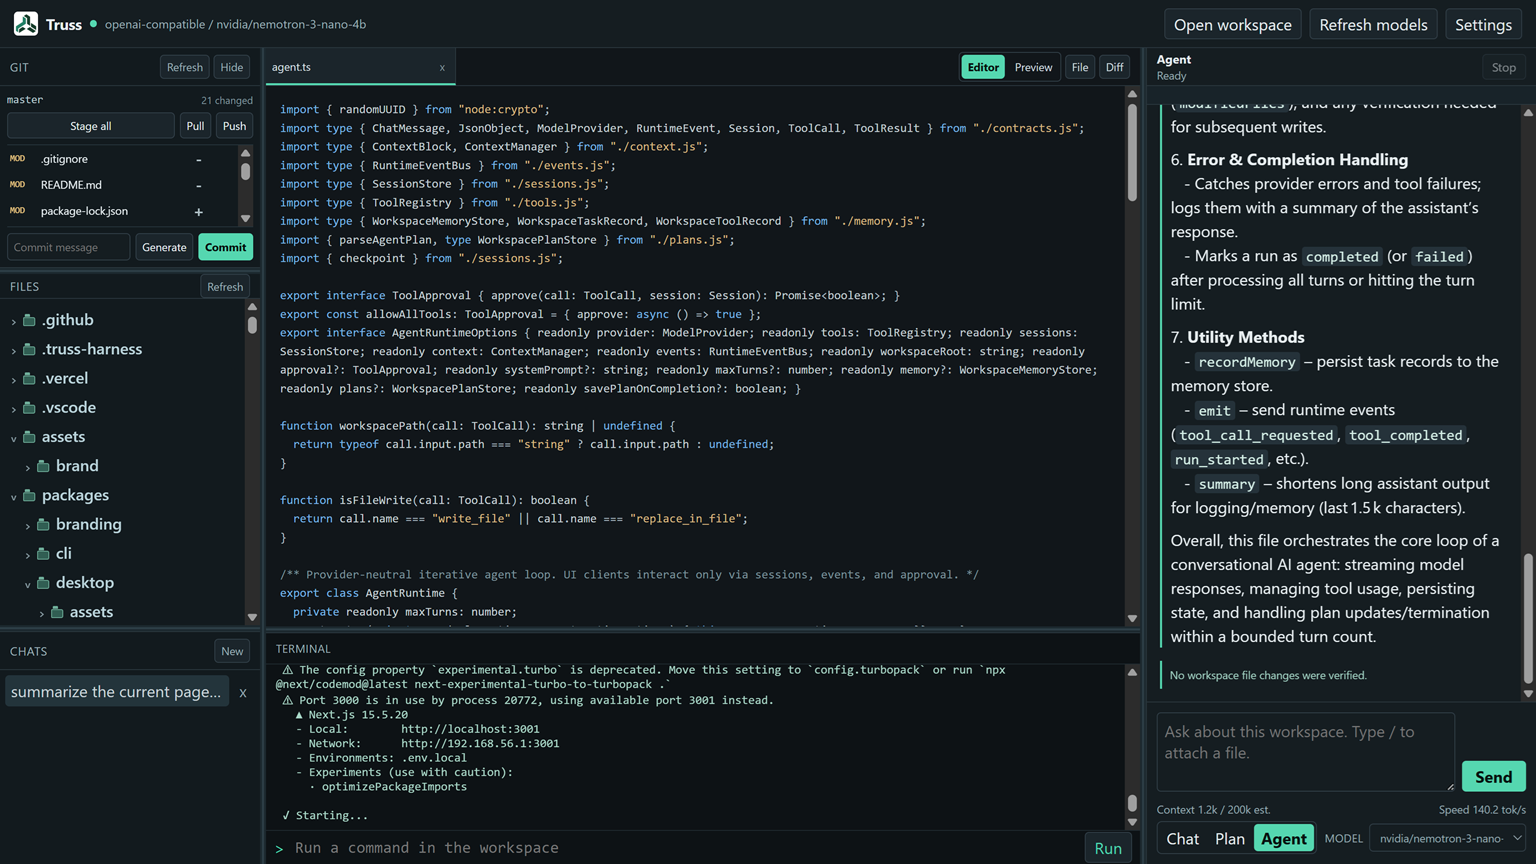
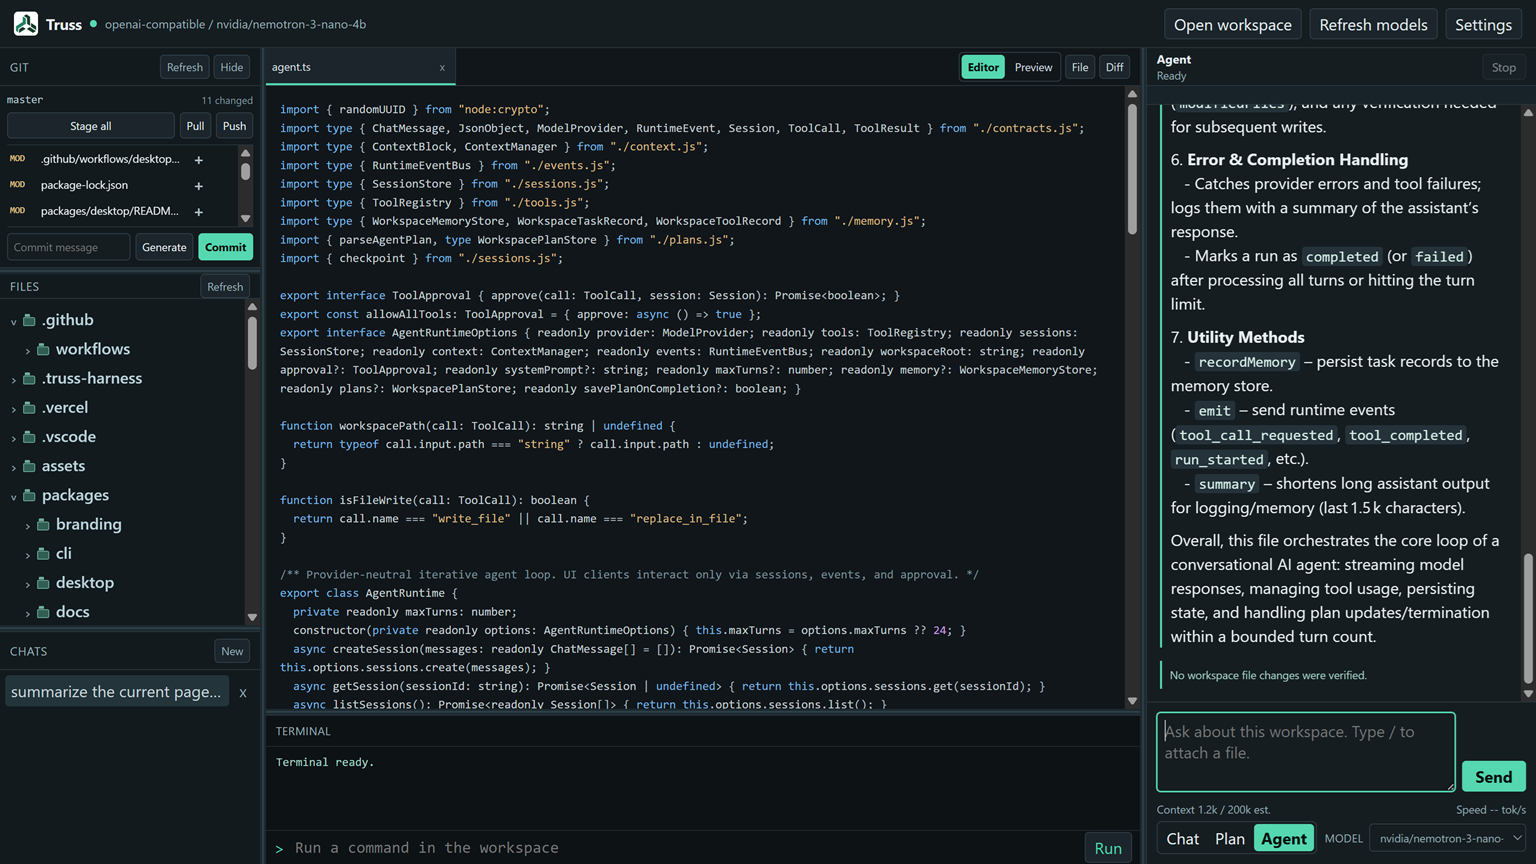
feat(desktop): add updater and file filtering

diff --git a/packages/desktop/src/renderer.ts b/packages/desktop/src/renderer.ts
@@ -31,6 +31,8 @@ const defaultConfiguration: DesktopConfiguration = {
 
 const element = <T extends HTMLElement>(id: string): T => document.getElementById(id) as T;
 const fileTree = element<HTMLDivElement>("fileTree");
+const fileSearch = element<HTMLInputElement>("fileSearch");
+const clearFileSearch = element<HTMLButtonElement>("clearFileSearch");
 const conversations = element<HTMLDivElement>("conversationList");
 const workbench = document.querySelector<HTMLElement>(".workbench") as HTMLElement;
 const sidebar = document.querySelector<HTMLElement>(".sidebar") as HTMLElement;
@@ -87,12 +89,19 @@ const permissionSelect = element<HTMLSelectElement>("permissionSelect");
 const internetAccessInput = element<HTMLInputElement>("internetAccessInput");
 const mcpServersInput = element<HTMLTextAreaElement>("mcpServersInput");
 const mcpStatus = element<HTMLDivElement>("mcpStatus");
+const checkUpdatesOnLaunch = element<HTMLInputElement>("checkUpdatesOnLaunch");
+const autoDownloadUpdates = element<HTMLInputElement>("autoDownloadUpdates");
+const updateStatus = element<HTMLSpanElement>("updateStatus");
+const checkUpdates = element<HTMLButtonElement>("checkUpdates");
+const downloadUpdate = element<HTMLButtonElement>("downloadUpdate");
+const installUpdate = element<HTMLButtonElement>("installUpdate");
 const toast = element<HTMLDivElement>("toast");
 
-let desktopState: DesktopState = { workspaceRoot: "", conversations: [] };
+let desktopState: DesktopState = { workspaceRoot: "", updates: { checkOnLaunch: true, autoDownload: false }, conversations: [] };
 let endpoints: readonly DesktopEndpoint[] = [];
 let models: readonly string[] = [];
 let files: readonly DesktopFile[] = [];
+let fileSearchQuery = "";
 let activeFile: string | undefined;
 let showingDiff = false;
 type EditorTabMode = "file" | "diff";
@@ -361,6 +370,35 @@ function renderFiles(): void {
     empty.className = "empty-chat";
     empty.textContent = "No files loaded.";
     fileTree.append(empty);
+    return;
+  }
+  const query = fileSearchQuery.trim();
+  clearFileSearch.hidden = !query;
+  if (query) {
+    const matches = files
+      .flatMap((file) => {
+        const score = fuzzyScore(file.path, query);
+        return score === undefined ? [] : [{ file, score }];
+      })
+      .sort((left, right) => left.score - right.score || left.file.path.localeCompare(right.file.path));
+    if (!matches.length) {
+      const empty = document.createElement("div");
+      empty.className = "empty-chat";
+      empty.textContent = `No files match “${query}”.`;
+      fileTree.append(empty);
+      return;
+    }
+    for (const { file } of matches) {
+      const row = document.createElement("div");
+      row.className = "tree-row file filtered";
+      const button = document.createElement("button");
+      button.textContent = file.path;
+      button.title = file.path;
+      if (file.path === activeFile) button.classList.add("active");
+      button.onclick = () => void openFile(file.path, false);
+      row.append(button);
+      fileTree.append(row);
+    }
     return;
   }
   interface TreeNode { readonly directories: Map<string, TreeNode>; readonly files: DesktopFile[]; }
@@ -929,6 +967,20 @@ function renderMcpStatus(): void {
   }));
 }
 
+function renderUpdate(status: Extract<DesktopEvent, { readonly type: "update" }>): void {
+  const version = status.version ? ` ${status.version}` : "";
+  updateStatus.textContent = status.status === "checking" ? "Checking for updates..."
+    : status.status === "available" ? `Version${version} is available.`
+      : status.status === "not-available" ? "Truss is up to date."
+        : status.status === "downloading" ? `Downloading update${status.percent === undefined ? "..." : ` (${Math.round(status.percent)}%)`}`
+          : status.status === "downloaded" ? `Version${version} is ready to install.`
+            : status.message ?? "Unable to check for updates.";
+  downloadUpdate.hidden = status.status !== "available";
+  installUpdate.hidden = status.status !== "downloaded";
+  checkUpdates.disabled = status.status === "checking" || status.status === "downloading";
+  downloadUpdate.disabled = status.status === "downloading";
+}
+
 function populateSettings(): void {
   const current = configuration();
   providerSelect.value = current.provider;
@@ -938,6 +990,8 @@ function populateSettings(): void {
   permissionSelect.value = current.permission;
   internetAccessInput.checked = current.internetAccess;
   mcpServersInput.value = Object.keys(current.mcpServers).length ? JSON.stringify(current.mcpServers, null, 2) : "";
+  checkUpdatesOnLaunch.checked = desktopState.updates.checkOnLaunch;
+  autoDownloadUpdates.checked = desktopState.updates.autoDownload;
   renderMcpStatus();
 }
 
@@ -1063,6 +1117,7 @@ function appendTerminal(text: string): void {
 }
 
 function handleEvent(message: DesktopEvent): void {
+  if (message.type === "update") { renderUpdate(message); return; }
   if (message.type === "chat-start") {
     runningConversationId = message.conversationId;
     updateConversation(message.conversationId, (current) => ({ ...current, lastRun: { status: "running", modifiedFiles: [] } }));
@@ -1230,6 +1285,16 @@ element<HTMLButtonElement>("chooseWorkspace").onclick = async () => {
 };
 element<HTMLButtonElement>("refreshModels").onclick = () => void discover({ provider: providerSelect.value === "openai-compatible" ? "openai-compatible" : "ollama", baseUrl: baseUrlInput.value || configuration().baseUrl });
 element<HTMLButtonElement>("refreshFiles").onclick = () => void loadFiles();
+fileSearch.oninput = () => { fileSearchQuery = fileSearch.value; renderFiles(); };
+fileSearch.onkeydown = (event) => {
+  if (event.key === "Escape") {
+    event.preventDefault();
+    fileSearch.value = "";
+    fileSearchQuery = "";
+    renderFiles();
+  }
+};
+clearFileSearch.onclick = () => { fileSearch.value = ""; fileSearchQuery = ""; renderFiles(); fileSearch.focus(); };
 element<HTMLButtonElement>("refreshGit").onclick = () => void refreshGit();
 element<HTMLButtonElement>("toggleGit").onclick = () => setGitCollapsed(!gitCollapsed);
 element<HTMLButtonElement>("stageAll").onclick = () => {
@@ -1281,11 +1346,17 @@ element<HTMLButtonElement>("applySettings").onclick = (event) => {
   event.preventDefault();
   try {
     const next = settingsConfiguration();
-    void applyConfiguration(next).then(() => settingsDialog.close()).catch((error) => notify(error instanceof Error ? error.message : String(error)));
+    void applyConfiguration(next)
+      .then(() => window.trussDesktop.configureUpdates({ checkOnLaunch: checkUpdatesOnLaunch.checked, autoDownload: autoDownloadUpdates.checked }))
+      .then((returned) => { desktopState = returned; settingsDialog.close(); })
+      .catch((error) => notify(error instanceof Error ? error.message : String(error)));
   } catch (error) {
     notify(error instanceof Error ? error.message : String(error));
   }
 };
+checkUpdates.onclick = () => void window.trussDesktop.checkForUpdates().catch((error) => renderUpdate({ type: "update", status: "error", message: error instanceof Error ? error.message : String(error) }));
+downloadUpdate.onclick = () => void window.trussDesktop.downloadUpdate().catch((error) => renderUpdate({ type: "update", status: "error", message: error instanceof Error ? error.message : String(error) }));
+installUpdate.onclick = () => { void window.trussDesktop.installUpdate().catch((error) => renderUpdate({ type: "update", status: "error", message: error instanceof Error ? error.message : String(error) })); };
 endpointSelect.onchange = () => { if (!endpointSelect.value) return; const selected = JSON.parse(endpointSelect.value) as DesktopEndpoint; providerSelect.value = selected.kind; baseUrlInput.value = selected.baseUrl; void discover({ provider: selected.kind, baseUrl: selected.baseUrl }); };
 quickModel.onchange = () => { const next = quickModel.value; if (!next || next === configuration().model) return; void applyConfiguration({ ...configuration(), model: next }).catch((error) => notify(error instanceof Error ? error.message : String(error))); };
 document.querySelectorAll<HTMLButtonElement>("[data-mode]").forEach((button) => button.onclick = () => void applyConfiguration({ ...configuration(), mode: button.dataset.mode as DesktopConfiguration["mode"] }).catch((error) => notify(error instanceof Error ? error.message : String(error))));

diff --git a/packages/desktop/src/main.ts b/packages/desktop/src/main.ts
@@ -1,4 +1,5 @@
 import { app, BrowserWindow, dialog, ipcMain, protocol, shell, type OpenDialogOptions } from "electron";
+import { autoUpdater } from "electron-updater";
 import { spawn } from "node:child_process";
 import { execFile as execFileCallback } from "node:child_process";
 import { createReadStream } from "node:fs";
@@ -34,7 +35,7 @@ protocol.registerSchemesAsPrivileged([{
 interface PersistedState extends DesktopState {}
 
 let mainWindow: BrowserWindow | undefined;
-let persisted: PersistedState = { workspaceRoot: process.cwd(), conversations: [] };
+let persisted: PersistedState = { workspaceRoot: process.cwd(), updates: { checkOnLaunch: true, autoDownload: false }, conversations: [] };
 let runtimeClient: Awaited<ReturnType<typeof createClientRuntime>> | undefined;
 let unsubscribeEvents: (() => void) | undefined;
 let activeSessionId: string | undefined;
@@ -42,11 +43,37 @@ let activeConversationId: string | undefined;
 let activeAbort: AbortController | undefined;
 let activeRun: Promise<void> | undefined;
 let devServerProcess: ReturnType<typeof spawn> | undefined;
+let updaterConfigured = false;
 const approvalResolvers = new Map<string, (approved: boolean) => void>();
 const sessionConversationIds = new Map<string, string>();
 
 function send(event: DesktopEvent): void {
   mainWindow?.webContents.send("truss:event", event);
+}
+
+function updaterError(error: unknown): void {
+  const message = error instanceof Error ? error.message : String(error);
+  send({ type: "update", status: "error", message });
+}
+
+function updaterSupported(): boolean {
+  return app.isPackaged && (process.platform === "win32" || (process.platform === "linux" && process.arch === "x64" && Boolean(process.env.APPIMAGE)));
+}
+
+function configureUpdater(): void {
+  if (!updaterSupported() || updaterConfigured) return;
+  updaterConfigured = true;
+  autoUpdater.autoDownload = persisted.updates.autoDownload;
+  autoUpdater.autoInstallOnAppQuit = false;
+  autoUpdater.on("checking-for-update", () => send({ type: "update", status: "checking" }));
+  autoUpdater.on("update-available", (info) => send({ type: "update", status: "available", version: info.version }));
+  autoUpdater.on("update-not-available", (info) => send({ type: "update", status: "not-available", version: info.version }));
+  autoUpdater.on("download-progress", (progress) => send({ type: "update", status: "downloading", percent: progress.percent }));
+  autoUpdater.on("update-downloaded", (info) => send({ type: "update", status: "downloaded", version: info.version }));
+  autoUpdater.on("error", updaterError);
+  if (persisted.updates.checkOnLaunch) {
+    setTimeout(() => { void autoUpdater.checkForUpdates().catch(updaterError); }, 1_500);
+  }
 }
 
 function detectedPreviewUrl(output: string): string | undefined {
@@ -97,11 +124,14 @@ async function loadPersistedState(): Promise<void> {
     persisted = {
       workspaceRoot: typeof parsed.workspaceRoot === "string" ? parsed.workspaceRoot : process.cwd(),
       configuration: isConfiguration(parsed.configuration) ? normalizeConfiguration(parsed.configuration) : undefined,
+      updates: parsed.updates && typeof parsed.updates === "object"
+        ? { checkOnLaunch: (parsed.updates as { checkOnLaunch?: unknown }).checkOnLaunch !== false, autoDownload: (parsed.updates as { autoDownload?: unknown }).autoDownload === true }
+        : { checkOnLaunch: true, autoDownload: false },
       conversations: Array.isArray(parsed.conversations) ? parsed.conversations.slice(0, 30) : [],
       activeConversationId: typeof parsed.activeConversationId === "string" ? parsed.activeConversationId : undefined
     };
   } catch {
-    persisted = { workspaceRoot: process.cwd(), conversations: [] };
+    persisted = { workspaceRoot: process.cwd(), updates: { checkOnLaunch: true, autoDownload: false }, conversations: [] };
   }
 }
 
@@ -504,6 +534,7 @@ app.whenReady().then(async () => {
   protocol.handle("truss-media", workspaceMediaResponse);
   if (persisted.configuration) await configureRuntime(persisted.configuration);
   await createMainWindow();
+  configureUpdater();
   app.on("activate", () => { if (!mainWindow) void createMainWindow(); });
 });
 
@@ -514,6 +545,30 @@ app.on("before-quit", () => {
 });
 
 ipcMain.handle("truss:initial-state", (): DesktopState => persisted);
+ipcMain.handle("truss:configure-updates", async (_event, updates: { readonly checkOnLaunch: boolean; readonly autoDownload: boolean }): Promise<DesktopState> => {
+  persisted = {
+    ...persisted,
+    updates: {
+      checkOnLaunch: updates.checkOnLaunch !== false,
+      autoDownload: updates.autoDownload === true
+    }
+  };
+  autoUpdater.autoDownload = persisted.updates.autoDownload;
+  await persistState();
+  return persisted;
+});
+ipcMain.handle("truss:check-for-updates", async (): Promise<void> => {
+  if (!updaterSupported()) throw new Error("In-app updates are available in installed Windows and Linux AppImage builds. Update this package through its installer or package manager.");
+  await autoUpdater.checkForUpdates();
+});
+ipcMain.handle("truss:download-update", async (): Promise<void> => {
+  if (!updaterSupported()) throw new Error("In-app updates are available in installed Windows and Linux AppImage builds. Update this package through its installer or package manager.");
+  await autoUpdater.downloadUpdate();
+});
+ipcMain.handle("truss:install-update", (): void => {
+  if (!updaterSupported()) throw new Error("In-app updates are available in installed Windows and Linux AppImage builds. Update this package through its installer or package manager.");
+  autoUpdater.quitAndInstall(false, true);
+});
 ipcMain.handle("truss:choose-workspace", async (): Promise<DesktopState | undefined> => {
   const options: OpenDialogOptions = { properties: ["openDirectory"] };
   const selection = mainWindow ? await dialog.showOpenDialog(mainWindow, options) : await dialog.showOpenDialog(options);

diff --git a/packages/desktop/src/styles.css b/packages/desktop/src/styles.css
@@ -188,6 +188,25 @@ button:focus-visible {
     margin-block: 3px;
 }
 
+.file-filter {
+    display: flex;
+    gap: 5px;
+    padding: 5px 6px;
+    border-bottom: 1px solid #2b383f;
+}
+
+.file-filter input {
+    min-width: 0;
+    flex: 1;
+    padding: 5px 7px;
+    font-size: 12px;
+}
+
+.file-filter button {
+    padding-inline: 6px;
+    font-size: 11px;
+}
+
 .file-tree,
 .conversation-list {
     min-height: 0;
@@ -871,6 +890,29 @@ dialog::backdrop {
     font-size: 11px;
 }
 
+.update-settings {
+    display: grid;
+    grid-column: 1 / -1;
+    gap: 8px;
+    padding-top: 4px;
+    border-top: 1px solid #2b383f;
+    color: #d8e5e8;
+    font-size: 12px;
+}
+
+.update-actions {
+    display: flex;
+    align-items: center;
+    flex-wrap: wrap;
+    gap: 7px;
+}
+
+.update-actions span {
+    flex: 1 1 180px;
+    color: #9cadb4;
+    font-size: 11px;
+}
+
 .mcp-status .connected {
     color: #69d6b5;
 }
@@ -938,6 +980,10 @@ dialog::backdrop {
 
 .tree-row.file button {
     color: #c6d1d6;
+}
+
+.tree-row.file.filtered button {
+    padding-left: 6px;
 }
 
 .tree-arrow {

diff --git a/packages/desktop/src/index.html b/packages/desktop/src/index.html
@@ -23,7 +23,7 @@
         </div>
       </section>
       <div id="gitSplitter" class="pane-splitter horizontal" role="separator" aria-label="Resize Git panel"></div>
-      <section class="side-section files-section"><div class="section-heading"><span>Files</span><button id="refreshFiles" title="Refresh files">Refresh</button></div><div id="fileTree" class="file-tree"></div></section>
+      <section class="side-section files-section"><div class="section-heading"><span>Files</span><button id="refreshFiles" title="Refresh files">Refresh</button></div><div class="file-filter"><input id="fileSearch" type="search" autocomplete="off" spellcheck="false" placeholder="Filter files" aria-label="Filter files"><button id="clearFileSearch" type="button" title="Clear file filter" aria-label="Clear file filter" hidden>Clear</button></div><div id="fileTree" class="file-tree"></div></section>
       <div id="historySplitter" class="pane-splitter horizontal" role="separator" aria-label="Resize chat history"></div>
       <section class="side-section history-section"><div class="section-heading"><span>Chats</span><button id="newChat" title="New chat">New</button></div><div id="conversationList" class="conversation-list"></div></section>
     </aside>
@@ -70,6 +70,12 @@
       <label class="checkbox-setting"><input id="internetAccessInput" type="checkbox"><span>Allow public internet research</span></label>
       <label class="mcp-setting">MCP servers (JSON)<textarea id="mcpServersInput" rows="8" spellcheck="false" placeholder='{"filesystem":{"command":"npx","args":["-y","@modelcontextprotocol/server-filesystem","."]}}'></textarea></label>
       <div id="mcpStatus" class="mcp-status">No MCP servers configured.</div>
+      <section class="update-settings" aria-label="Desktop updates">
+        <strong>Desktop updates</strong>
+        <label class="checkbox-setting"><input id="checkUpdatesOnLaunch" type="checkbox"><span>Check for updates when Truss starts</span></label>
+        <label class="checkbox-setting"><input id="autoDownloadUpdates" type="checkbox"><span>Automatically download available updates</span></label>
+        <div class="update-actions"><span id="updateStatus">Updates have not been checked.</span><button id="checkUpdates" type="button">Check now</button><button id="downloadUpdate" type="button" hidden>Download</button><button id="installUpdate" class="primary" type="button" hidden>Restart to update</button></div>
+      </section>
       <div class="dialog-actions"><button id="dialogRefresh" type="button">Refresh</button><button id="applySettings" class="primary" value="default">Apply</button></div>
     </form>
   </dialog>

diff --git a/packages/desktop/src/shared.ts b/packages/desktop/src/shared.ts
@@ -61,6 +61,7 @@ export interface DesktopGitStatus {
 export interface DesktopState {
   readonly workspaceRoot: string;
   readonly configuration?: DesktopConfiguration;
+  readonly updates: { readonly checkOnLaunch: boolean; readonly autoDownload: boolean };
   readonly conversations: readonly DesktopConversation[];
   readonly activeConversationId?: string;
   readonly mcpStatuses?: readonly McpServerStatus[];
@@ -73,6 +74,7 @@ export type DesktopEvent =
   | { readonly type: "chat-error"; readonly conversationId: string; readonly message: string }
   | { readonly type: "approval"; readonly callId: string; readonly tool: string; readonly input: Record<string, unknown> }
   | { readonly type: "dev-server"; readonly status: "starting" | "running" | "stopped" | "failed"; readonly command?: string; readonly url?: string; readonly message?: string }
+  | { readonly type: "update"; readonly status: "checking" | "available" | "not-available" | "downloading" | "downloaded" | "error"; readonly version?: string; readonly percent?: number; readonly message?: string }
   | { readonly type: "terminal-output"; readonly commandId: string; readonly text: string };
 
 export interface DesktopBridge {
@@ -81,6 +83,10 @@ export interface DesktopBridge {
   saveConversations(conversations: readonly DesktopConversation[], activeConversationId?: string): Promise<void>;
   discoverModels(configuration?: Partial<DesktopConfiguration>): Promise<{ readonly endpoints: readonly DesktopEndpoint[]; readonly models: readonly string[] }>;
   configure(configuration: DesktopConfiguration): Promise<DesktopState>;
+  configureUpdates(updates: { readonly checkOnLaunch: boolean; readonly autoDownload: boolean }): Promise<DesktopState>;
+  checkForUpdates(): Promise<void>;
+  downloadUpdate(): Promise<void>;
+  installUpdate(): Promise<void>;
   sendChat(input: { readonly prompt: string; readonly conversationId: string; readonly history: readonly DesktopMessage[]; readonly activeFilePath?: string; readonly attachedPaths?: readonly string[]; readonly openFilePaths?: readonly string[] }): Promise<void>;
   stopChat(): Promise<void>;
   resolveApproval(callId: string, approved: boolean): Promise<void>;

diff --git a/packages/desktop/src/preload.ts b/packages/desktop/src/preload.ts
@@ -7,6 +7,10 @@ const bridge: DesktopBridge = {
   saveConversations: (conversations: readonly DesktopConversation[], activeConversationId?: string) => ipcRenderer.invoke("truss:save-conversations", conversations, activeConversationId),
   discoverModels: (configuration?: Partial<DesktopConfiguration>) => ipcRenderer.invoke("truss:discover-models", configuration),
   configure: (configuration: DesktopConfiguration) => ipcRenderer.invoke("truss:configure", configuration),
+  configureUpdates: (updates: { readonly checkOnLaunch: boolean; readonly autoDownload: boolean }) => ipcRenderer.invoke("truss:configure-updates", updates),
+  checkForUpdates: () => ipcRenderer.invoke("truss:check-for-updates"),
+  downloadUpdate: () => ipcRenderer.invoke("truss:download-update"),
+  installUpdate: () => ipcRenderer.invoke("truss:install-update"),
   sendChat: (input: { readonly prompt: string; readonly conversationId: string; readonly history: readonly DesktopMessage[]; readonly activeFilePath?: string; readonly attachedPaths?: readonly string[]; readonly openFilePaths?: readonly string[] }) => ipcRenderer.invoke("truss:send-chat", input),
   stopChat: () => ipcRenderer.invoke("truss:stop-chat"),
   resolveApproval: (callId: string, approved: boolean) => ipcRenderer.invoke("truss:resolve-approval", callId, approved),

diff --git a/packages/desktop/README.md b/packages/desktop/README.md
@@ -31,6 +31,12 @@ The three-pane workspace supports a hierarchical file tree, multiple editor tabs
 
 The terminal accepts both ordinary shell commands and Truss workspace commands. Enter `/help`, `/status`, `/init`, `/update [note]`, or `/clear-memory` directly; slash commands run locally through Truss rather than being sent to the operating-system shell.
 
+## Updates
+
+Installed Windows and Linux x64 AppImage builds check the latest stable GitHub release when **Check for updates when Truss starts** is enabled in Settings. This preference is on by default. Enable **Automatically download available updates** for background downloads, or use **Check now** and **Download** manually. Choose **Restart to update** when the update is ready.
+
+Debian, RPM, pacman, and Linux ARM64 packages are updated through their installer or package manager. Development builds intentionally do not check for updates.
+
 ## Security model
 
 The renderer runs with `contextIsolation` enabled and `nodeIntegration` disabled. Filesystem, terminal, Git, provider, and runtime operations are exposed only through explicit IPC handlers in `src/main.ts`.